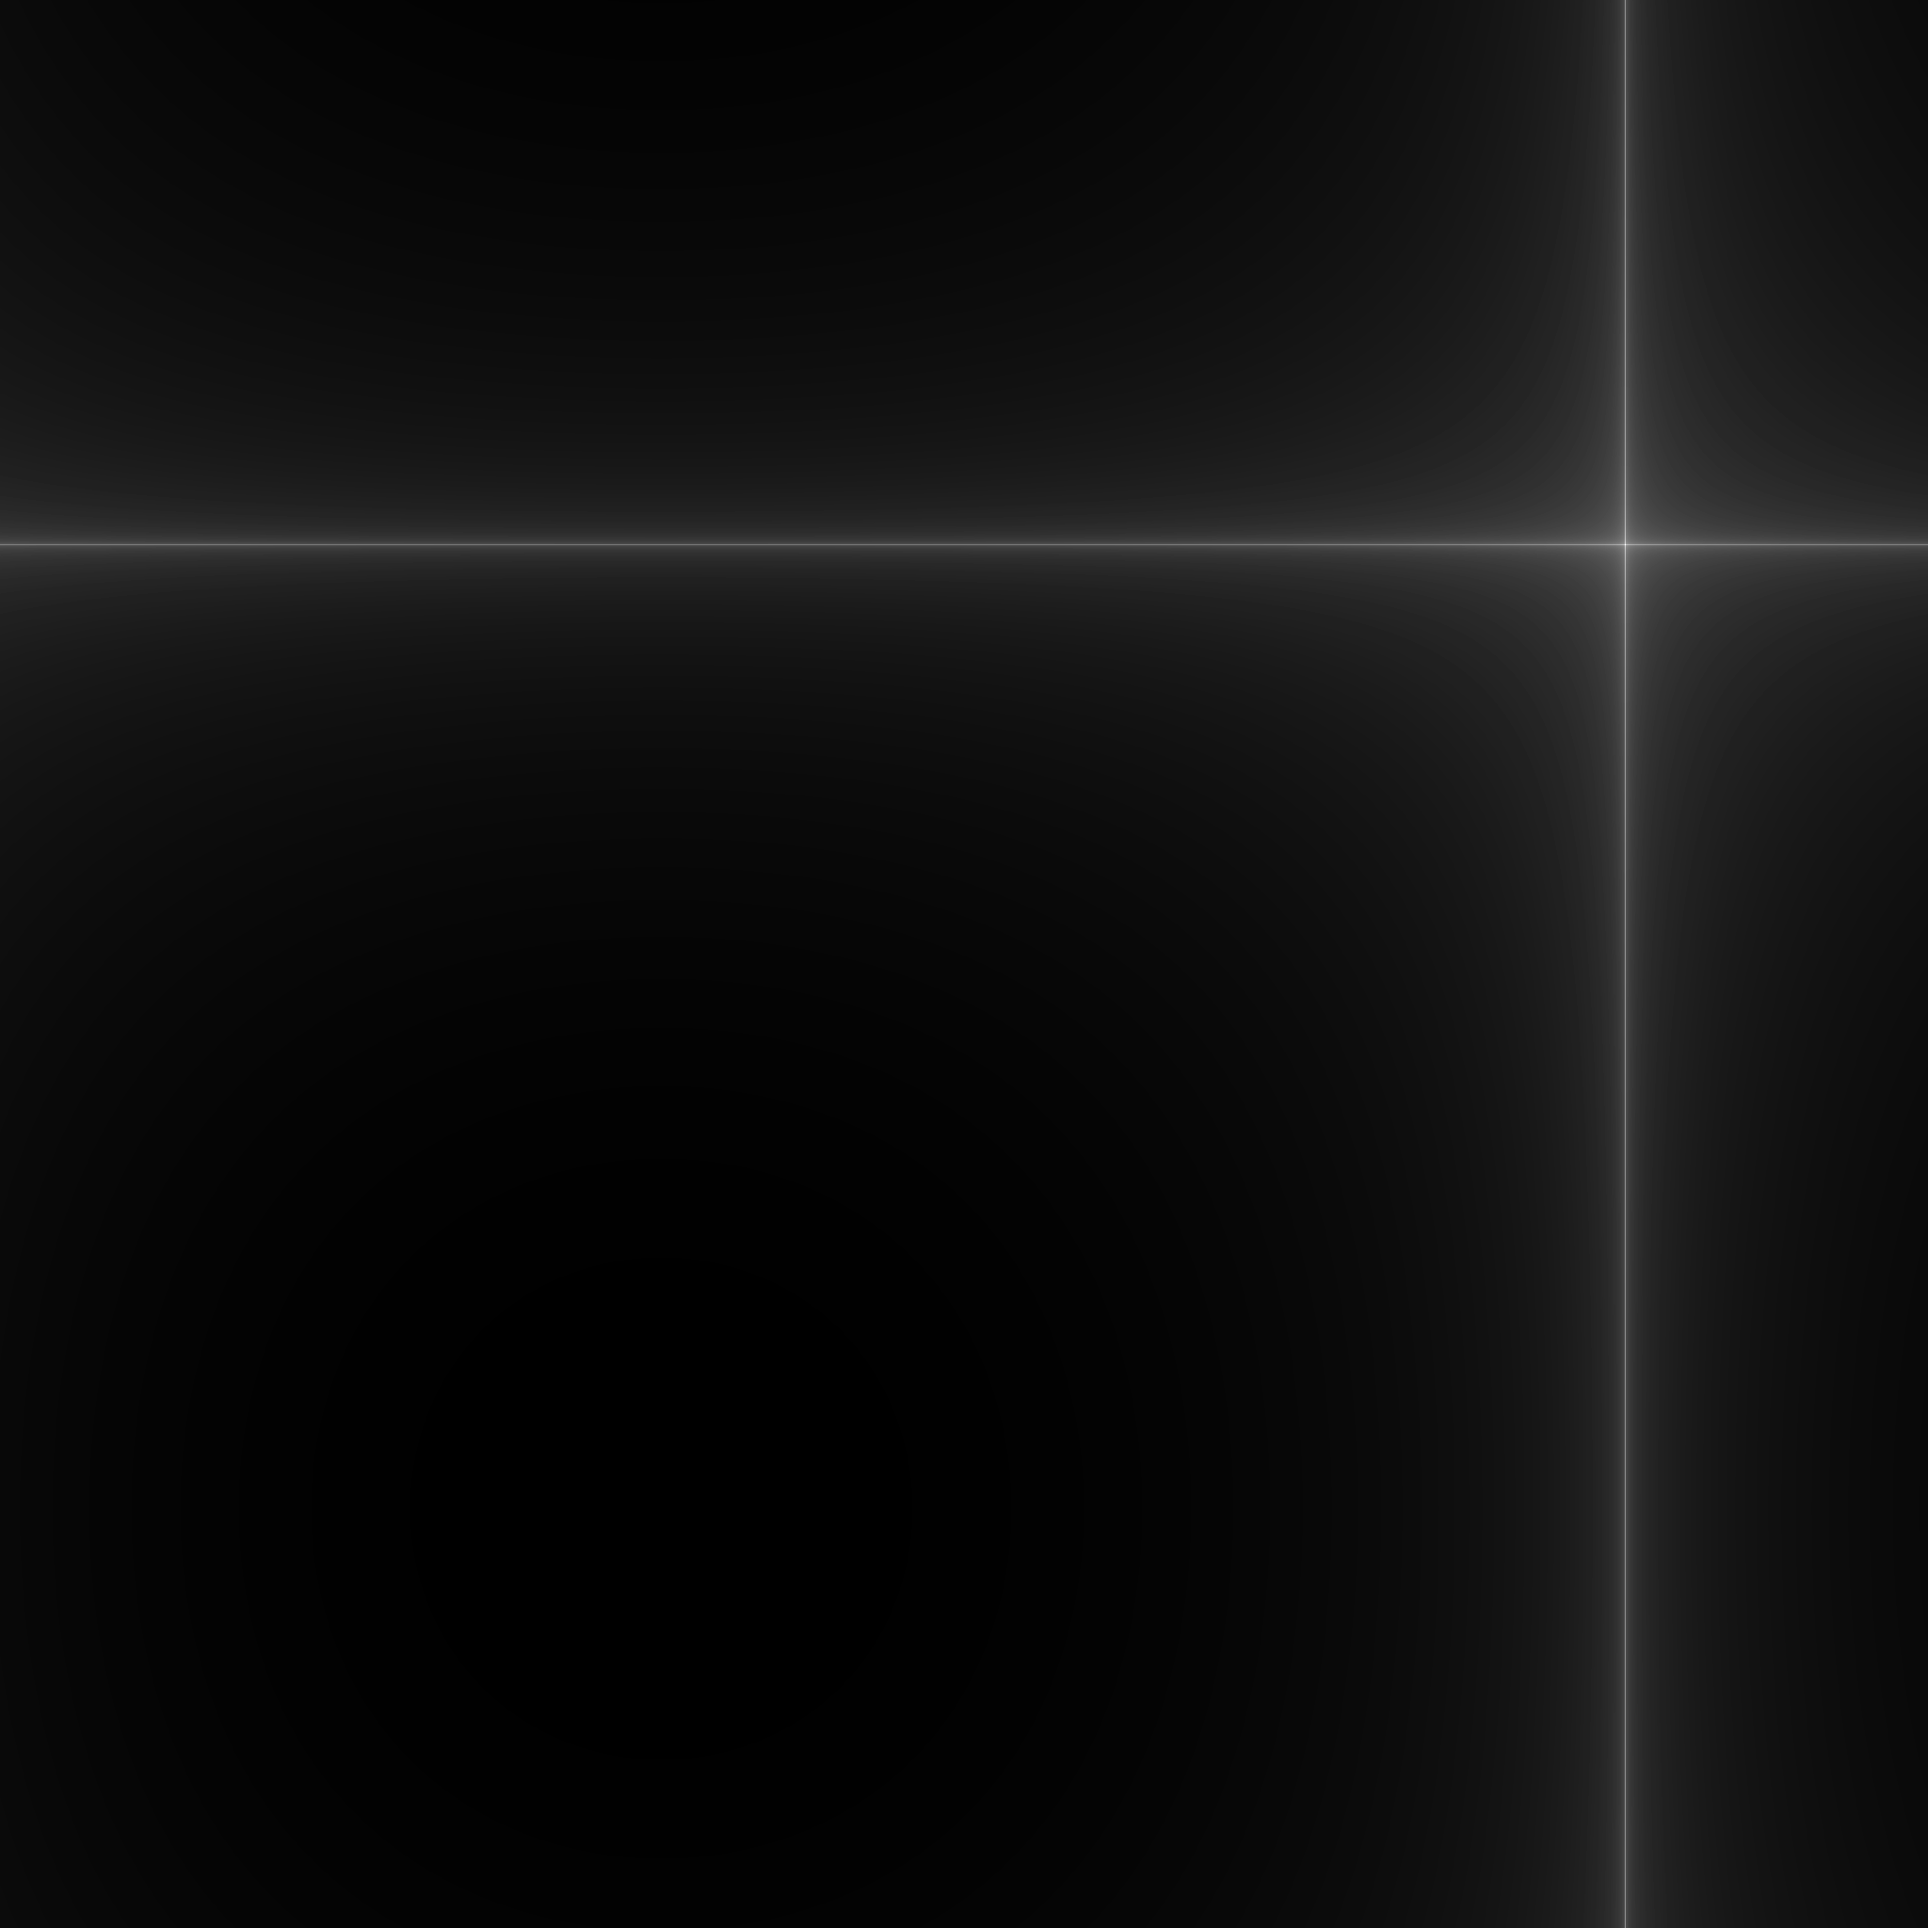
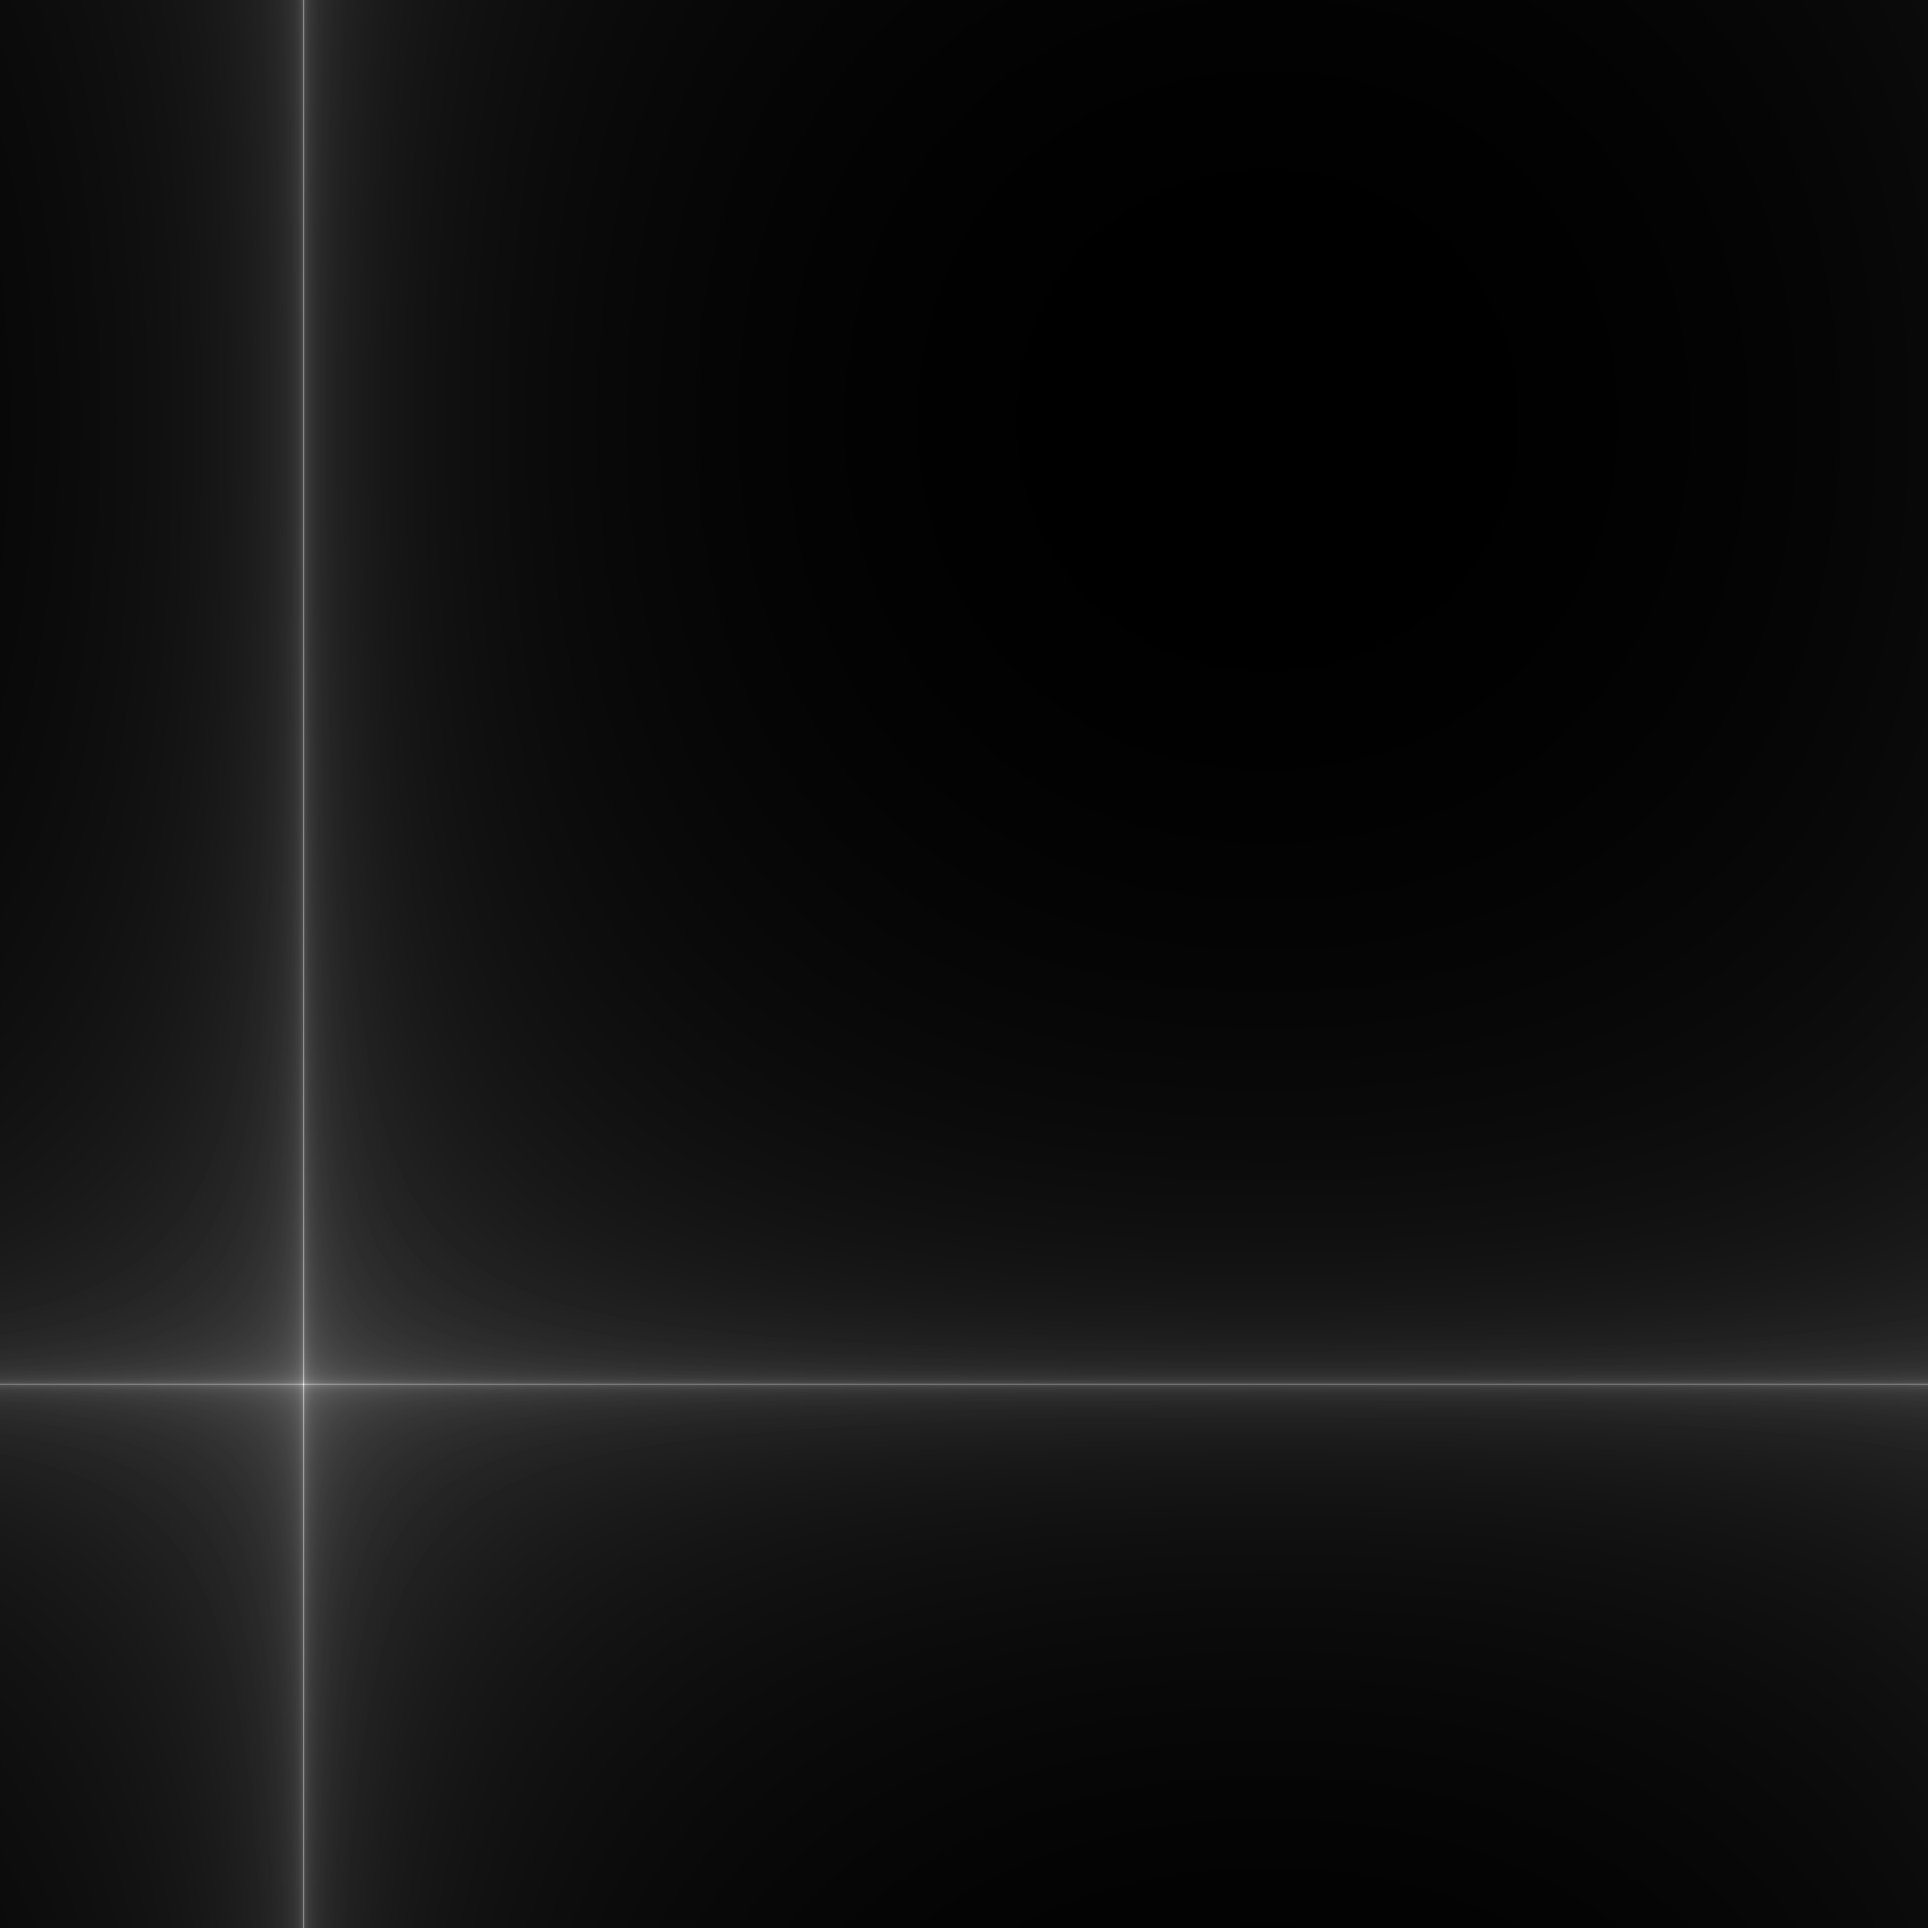
Correction
I was multiplying the hologram with the fourier transform of the reference wave, instead of just multiplying by the reference wave alone.

Changed region(s): [[0.0, 0.0, 1.0, 1.0]]

diff --git a/Punto 3.py b/Punto 3.py
@@ -32,12 +32,12 @@ def Ref(w_length, deltax0, deltay0, M,N):
     thetax=0.068284  #3.9124 degrees
     thetay=0.04336   #2.48449 degrees
 
-    Ref=np.exp(1j*k*deltax0*x*np.sin(thetax))*np.exp(-1j*k*deltay0*y*np.sin(thetay))
+    Ref=np.exp(-1j*k*deltax0*x*np.sin(thetax))*np.exp(1j*k*deltay0*y*np.sin(thetay))
 
-    R=np.fft.fft2(Ref)
-    R=np.fft.fftshift(R)
+    FTRef=np.fft.fft2(Ref)
+    FTRef=np.fft.fftshift(FTRef)
 
-    return R
+    return Ref,FTRef
 
 def Fresnel(Field, z, deltax0, deltay0, w_length, deltax, deltay, M, N):
     """
@@ -55,7 +55,8 @@ def Fresnel(Field, z, deltax0, deltay0, w_length, deltax, deltay, M, N):
     F= np.fft.fft2(Field*expFT*deltax0*deltay0)
     
     amp = np.exp(((1j*k)/(2*z))*((X*deltax)**2+(Y*deltay)**2))*(np.exp(1j*k*z)/(1j*w_length*z))
-    F= np.fft.fftshift(F)*amp
+    #F= np.fft.fftshift(F)*amp
+    F=F*amp
     
     return F
 """
@@ -97,15 +98,15 @@ FTholo= np.fft.fft2(holo)
 FTholo= np.fft.fftshift(FTholo)
 Filter=T*FTholo
 InvFT=np.fft.ifft2(Filter)
-R=Ref(w_length, deltax0, deltay0, M,N)
-U1=InvFT*R
+Ref,FTRef=Ref(w_length, deltax0, deltay0, M,N)
+U1=InvFT*Ref
 Reconst=Fresnel(U1, z, deltax0, deltay0, w_length, deltax, deltay, M, N)
 
 #Intensity
 Iholo=np.log(np.abs(FTholo)**2)
 IFilter=np.log((np.abs(Filter)**2)+0.0001)
 IInvFT=np.abs(InvFT)**2
-IR=np.log(np.abs(R)**2)
+IR=np.log(np.abs(FTRef)**2)
 IU1=np.log(np.abs(U1)**2)
 IReconst=(np.abs(Reconst)**2)
 
